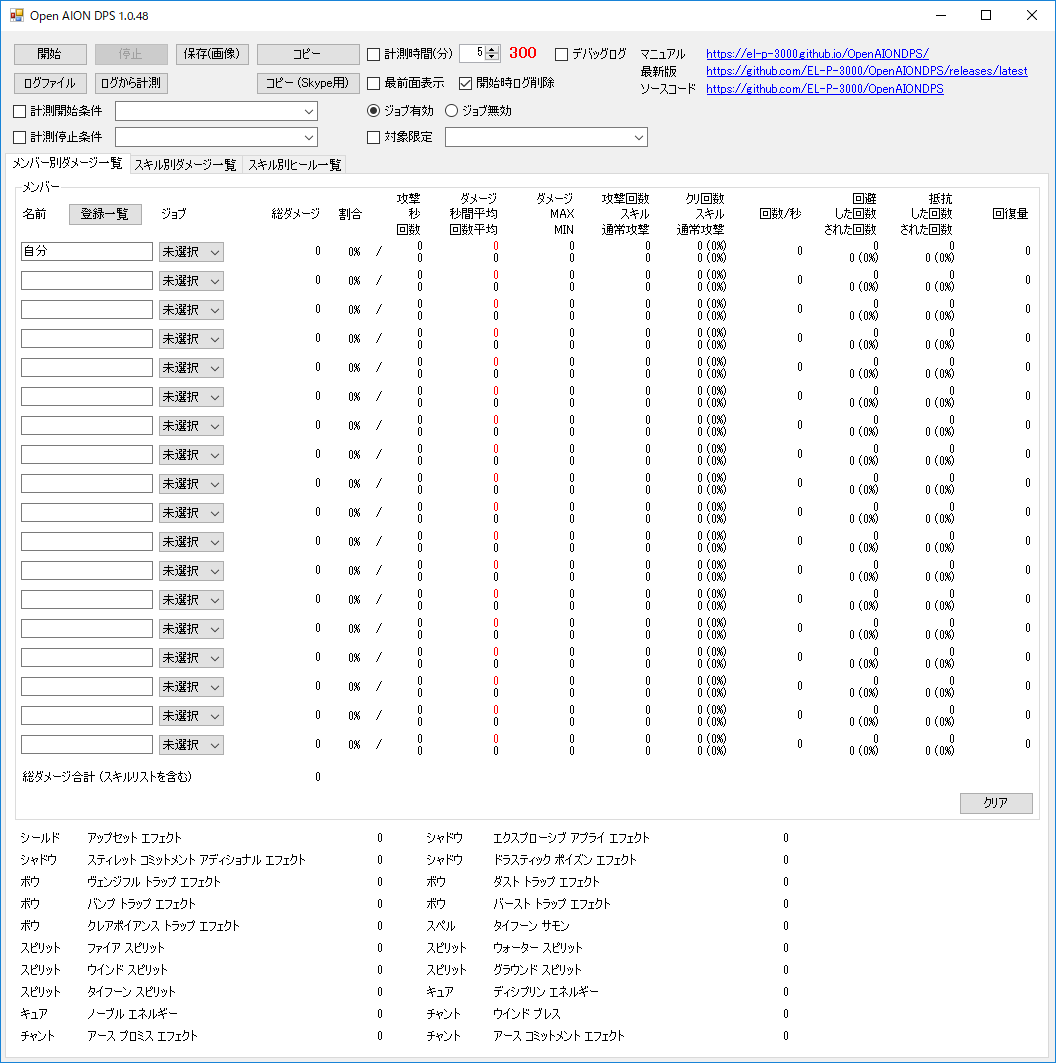
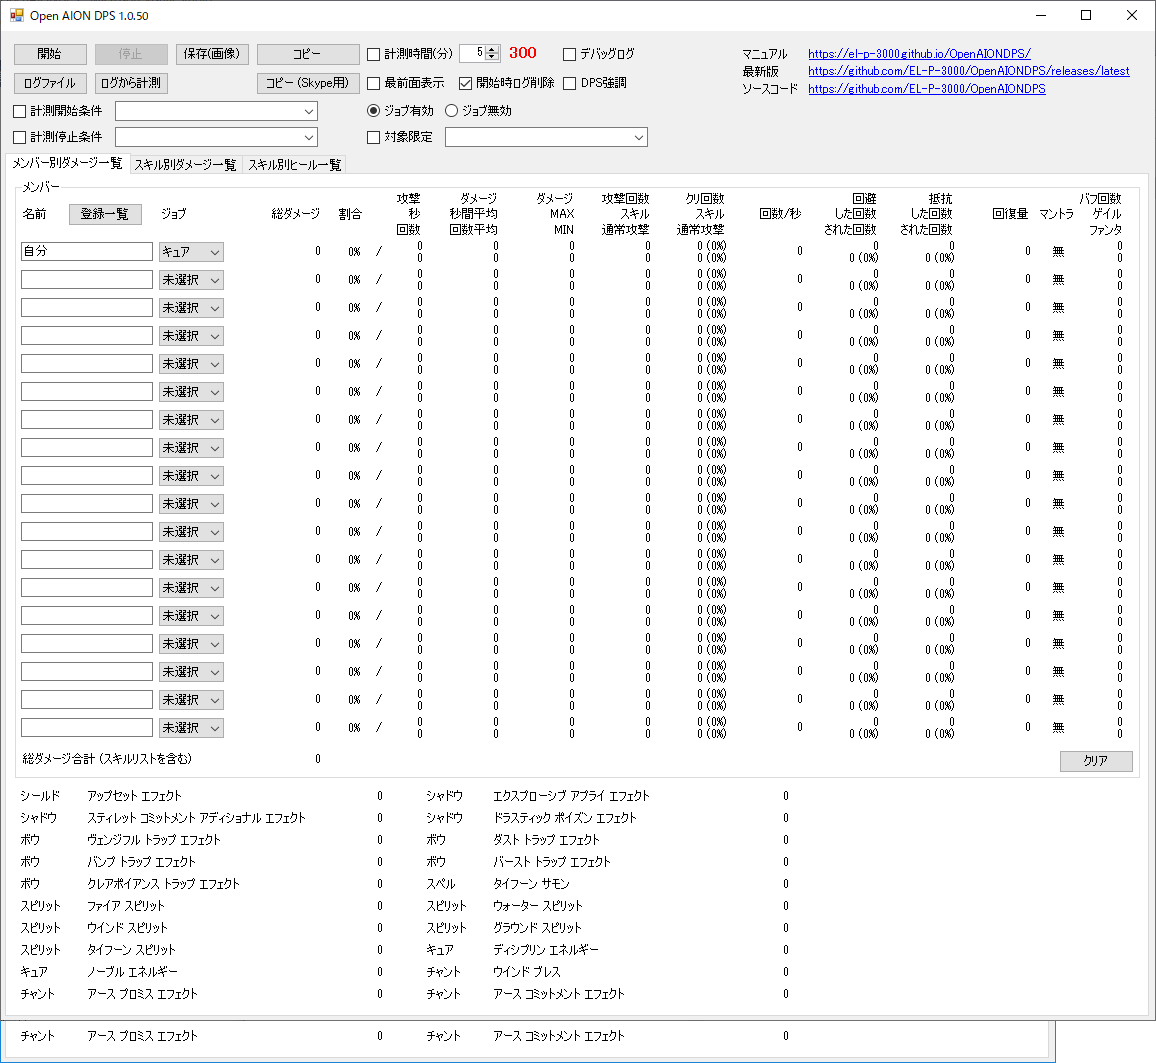
Version 1.0.50

diff --git a/OpenAIONDPS/MainForm.Designer.cs b/OpenAIONDPS/MainForm.Designer.cs
@@ -28,18 +28,18 @@
         /// </summary>
         private void InitializeComponent()
         {
-            System.Windows.Forms.DataGridViewCellStyle dataGridViewCellStyle13 = new System.Windows.Forms.DataGridViewCellStyle();
-            System.Windows.Forms.DataGridViewCellStyle dataGridViewCellStyle14 = new System.Windows.Forms.DataGridViewCellStyle();
-            System.Windows.Forms.DataGridViewCellStyle dataGridViewCellStyle15 = new System.Windows.Forms.DataGridViewCellStyle();
-            System.Windows.Forms.DataGridViewCellStyle dataGridViewCellStyle16 = new System.Windows.Forms.DataGridViewCellStyle();
-            System.Windows.Forms.DataGridViewCellStyle dataGridViewCellStyle17 = new System.Windows.Forms.DataGridViewCellStyle();
-            System.Windows.Forms.DataGridViewCellStyle dataGridViewCellStyle18 = new System.Windows.Forms.DataGridViewCellStyle();
-            System.Windows.Forms.DataGridViewCellStyle dataGridViewCellStyle19 = new System.Windows.Forms.DataGridViewCellStyle();
-            System.Windows.Forms.DataGridViewCellStyle dataGridViewCellStyle20 = new System.Windows.Forms.DataGridViewCellStyle();
-            System.Windows.Forms.DataGridViewCellStyle dataGridViewCellStyle21 = new System.Windows.Forms.DataGridViewCellStyle();
-            System.Windows.Forms.DataGridViewCellStyle dataGridViewCellStyle22 = new System.Windows.Forms.DataGridViewCellStyle();
-            System.Windows.Forms.DataGridViewCellStyle dataGridViewCellStyle23 = new System.Windows.Forms.DataGridViewCellStyle();
-            System.Windows.Forms.DataGridViewCellStyle dataGridViewCellStyle24 = new System.Windows.Forms.DataGridViewCellStyle();
+            System.Windows.Forms.DataGridViewCellStyle dataGridViewCellStyle1 = new System.Windows.Forms.DataGridViewCellStyle();
+            System.Windows.Forms.DataGridViewCellStyle dataGridViewCellStyle2 = new System.Windows.Forms.DataGridViewCellStyle();
+            System.Windows.Forms.DataGridViewCellStyle dataGridViewCellStyle3 = new System.Windows.Forms.DataGridViewCellStyle();
+            System.Windows.Forms.DataGridViewCellStyle dataGridViewCellStyle4 = new System.Windows.Forms.DataGridViewCellStyle();
+            System.Windows.Forms.DataGridViewCellStyle dataGridViewCellStyle5 = new System.Windows.Forms.DataGridViewCellStyle();
+            System.Windows.Forms.DataGridViewCellStyle dataGridViewCellStyle6 = new System.Windows.Forms.DataGridViewCellStyle();
+            System.Windows.Forms.DataGridViewCellStyle dataGridViewCellStyle7 = new System.Windows.Forms.DataGridViewCellStyle();
+            System.Windows.Forms.DataGridViewCellStyle dataGridViewCellStyle8 = new System.Windows.Forms.DataGridViewCellStyle();
+            System.Windows.Forms.DataGridViewCellStyle dataGridViewCellStyle9 = new System.Windows.Forms.DataGridViewCellStyle();
+            System.Windows.Forms.DataGridViewCellStyle dataGridViewCellStyle10 = new System.Windows.Forms.DataGridViewCellStyle();
+            System.Windows.Forms.DataGridViewCellStyle dataGridViewCellStyle11 = new System.Windows.Forms.DataGridViewCellStyle();
+            System.Windows.Forms.DataGridViewCellStyle dataGridViewCellStyle12 = new System.Windows.Forms.DataGridViewCellStyle();
             this.CalculationStartButton = new System.Windows.Forms.Button();
             this.CalculationStopButton = new System.Windows.Forms.Button();
             this.OpenLogFileButton = new System.Windows.Forms.Button();
@@ -1037,14 +1037,14 @@
             this.AttackSkillListDataGridView.Anchor = ((System.Windows.Forms.AnchorStyles)((((System.Windows.Forms.AnchorStyles.Top | System.Windows.Forms.AnchorStyles.Bottom) 
             | System.Windows.Forms.AnchorStyles.Left) 
             | System.Windows.Forms.AnchorStyles.Right)));
-            dataGridViewCellStyle13.Alignment = System.Windows.Forms.DataGridViewContentAlignment.MiddleLeft;
-            dataGridViewCellStyle13.BackColor = System.Drawing.SystemColors.Control;
-            dataGridViewCellStyle13.Font = new System.Drawing.Font("MS UI Gothic", 9F, System.Drawing.FontStyle.Regular, System.Drawing.GraphicsUnit.Point, ((byte)(128)));
-            dataGridViewCellStyle13.ForeColor = System.Drawing.SystemColors.WindowText;
-            dataGridViewCellStyle13.SelectionBackColor = System.Drawing.SystemColors.Highlight;
-            dataGridViewCellStyle13.SelectionForeColor = System.Drawing.SystemColors.HighlightText;
-            dataGridViewCellStyle13.WrapMode = System.Windows.Forms.DataGridViewTriState.False;
-            this.AttackSkillListDataGridView.ColumnHeadersDefaultCellStyle = dataGridViewCellStyle13;
+            dataGridViewCellStyle1.Alignment = System.Windows.Forms.DataGridViewContentAlignment.MiddleLeft;
+            dataGridViewCellStyle1.BackColor = System.Drawing.SystemColors.Control;
+            dataGridViewCellStyle1.Font = new System.Drawing.Font("MS UI Gothic", 9F, System.Drawing.FontStyle.Regular, System.Drawing.GraphicsUnit.Point, ((byte)(128)));
+            dataGridViewCellStyle1.ForeColor = System.Drawing.SystemColors.WindowText;
+            dataGridViewCellStyle1.SelectionBackColor = System.Drawing.SystemColors.Highlight;
+            dataGridViewCellStyle1.SelectionForeColor = System.Drawing.SystemColors.HighlightText;
+            dataGridViewCellStyle1.WrapMode = System.Windows.Forms.DataGridViewTriState.False;
+            this.AttackSkillListDataGridView.ColumnHeadersDefaultCellStyle = dataGridViewCellStyle1;
             this.AttackSkillListDataGridView.ColumnHeadersHeightSizeMode = System.Windows.Forms.DataGridViewColumnHeadersHeightSizeMode.AutoSize;
             this.AttackSkillListDataGridView.Columns.AddRange(new System.Windows.Forms.DataGridViewColumn[] {
             this.MemberNameColumn,
@@ -1073,8 +1073,8 @@
             // 
             // SkillNameColumn
             // 
-            dataGridViewCellStyle14.Alignment = System.Windows.Forms.DataGridViewContentAlignment.MiddleLeft;
-            this.SkillNameColumn.DefaultCellStyle = dataGridViewCellStyle14;
+            dataGridViewCellStyle2.Alignment = System.Windows.Forms.DataGridViewContentAlignment.MiddleLeft;
+            this.SkillNameColumn.DefaultCellStyle = dataGridViewCellStyle2;
             this.SkillNameColumn.HeaderText = "スキル名";
             this.SkillNameColumn.Name = "SkillNameColumn";
             this.SkillNameColumn.ReadOnly = true;
@@ -1082,8 +1082,8 @@
             // 
             // DamageColumn
             // 
-            dataGridViewCellStyle15.Alignment = System.Windows.Forms.DataGridViewContentAlignment.MiddleRight;
-            this.DamageColumn.DefaultCellStyle = dataGridViewCellStyle15;
+            dataGridViewCellStyle3.Alignment = System.Windows.Forms.DataGridViewContentAlignment.MiddleRight;
+            this.DamageColumn.DefaultCellStyle = dataGridViewCellStyle3;
             this.DamageColumn.HeaderText = "総ダメージ";
             this.DamageColumn.Name = "DamageColumn";
             this.DamageColumn.ReadOnly = true;
@@ -1091,8 +1091,8 @@
             // 
             // AttackNumberColumn
             // 
-            dataGridViewCellStyle16.Alignment = System.Windows.Forms.DataGridViewContentAlignment.MiddleRight;
-            this.AttackNumberColumn.DefaultCellStyle = dataGridViewCellStyle16;
+            dataGridViewCellStyle4.Alignment = System.Windows.Forms.DataGridViewContentAlignment.MiddleRight;
+            this.AttackNumberColumn.DefaultCellStyle = dataGridViewCellStyle4;
             this.AttackNumberColumn.HeaderText = "回数";
             this.AttackNumberColumn.Name = "AttackNumberColumn";
             this.AttackNumberColumn.ReadOnly = true;
@@ -1100,40 +1100,40 @@
             // 
             // MaxDamageColumn
             // 
-            dataGridViewCellStyle17.Alignment = System.Windows.Forms.DataGridViewContentAlignment.MiddleRight;
-            this.MaxDamageColumn.DefaultCellStyle = dataGridViewCellStyle17;
+            dataGridViewCellStyle5.Alignment = System.Windows.Forms.DataGridViewContentAlignment.MiddleRight;
+            this.MaxDamageColumn.DefaultCellStyle = dataGridViewCellStyle5;
             this.MaxDamageColumn.HeaderText = "MAXダメ(クリ無)";
             this.MaxDamageColumn.Name = "MaxDamageColumn";
             this.MaxDamageColumn.ReadOnly = true;
             // 
             // MinDamageColumn
             // 
-            dataGridViewCellStyle18.Alignment = System.Windows.Forms.DataGridViewContentAlignment.MiddleRight;
-            this.MinDamageColumn.DefaultCellStyle = dataGridViewCellStyle18;
+            dataGridViewCellStyle6.Alignment = System.Windows.Forms.DataGridViewContentAlignment.MiddleRight;
+            this.MinDamageColumn.DefaultCellStyle = dataGridViewCellStyle6;
             this.MinDamageColumn.HeaderText = "MINダメ(クリ無)";
             this.MinDamageColumn.Name = "MinDamageColumn";
             this.MinDamageColumn.ReadOnly = true;
             // 
             // MaxDamageWithCriticalColumn
             // 
-            dataGridViewCellStyle19.Alignment = System.Windows.Forms.DataGridViewContentAlignment.MiddleRight;
-            this.MaxDamageWithCriticalColumn.DefaultCellStyle = dataGridViewCellStyle19;
+            dataGridViewCellStyle7.Alignment = System.Windows.Forms.DataGridViewContentAlignment.MiddleRight;
+            this.MaxDamageWithCriticalColumn.DefaultCellStyle = dataGridViewCellStyle7;
             this.MaxDamageWithCriticalColumn.HeaderText = "MAXダメ(クリ有)";
             this.MaxDamageWithCriticalColumn.Name = "MaxDamageWithCriticalColumn";
             this.MaxDamageWithCriticalColumn.ReadOnly = true;
             // 
             // MinDamageWithCriticalColumn
             // 
-            dataGridViewCellStyle20.Alignment = System.Windows.Forms.DataGridViewContentAlignment.MiddleRight;
-            this.MinDamageWithCriticalColumn.DefaultCellStyle = dataGridViewCellStyle20;
+            dataGridViewCellStyle8.Alignment = System.Windows.Forms.DataGridViewContentAlignment.MiddleRight;
+            this.MinDamageWithCriticalColumn.DefaultCellStyle = dataGridViewCellStyle8;
             this.MinDamageWithCriticalColumn.HeaderText = "MINダメ(クリ有)";
             this.MinDamageWithCriticalColumn.Name = "MinDamageWithCriticalColumn";
             this.MinDamageWithCriticalColumn.ReadOnly = true;
             // 
             // DamageParAttackNumber
             // 
-            dataGridViewCellStyle21.Alignment = System.Windows.Forms.DataGridViewContentAlignment.MiddleRight;
-            this.DamageParAttackNumber.DefaultCellStyle = dataGridViewCellStyle21;
+            dataGridViewCellStyle9.Alignment = System.Windows.Forms.DataGridViewContentAlignment.MiddleRight;
+            this.DamageParAttackNumber.DefaultCellStyle = dataGridViewCellStyle9;
             this.DamageParAttackNumber.HeaderText = "平均ダメージ";
             this.DamageParAttackNumber.Name = "DamageParAttackNumber";
             this.DamageParAttackNumber.ReadOnly = true;
@@ -1168,14 +1168,14 @@
             this.HealSkillListDataGridView.Anchor = ((System.Windows.Forms.AnchorStyles)((((System.Windows.Forms.AnchorStyles.Top | System.Windows.Forms.AnchorStyles.Bottom) 
             | System.Windows.Forms.AnchorStyles.Left) 
             | System.Windows.Forms.AnchorStyles.Right)));
-            dataGridViewCellStyle22.Alignment = System.Windows.Forms.DataGridViewContentAlignment.MiddleLeft;
-            dataGridViewCellStyle22.BackColor = System.Drawing.SystemColors.Control;
-            dataGridViewCellStyle22.Font = new System.Drawing.Font("MS UI Gothic", 9F, System.Drawing.FontStyle.Regular, System.Drawing.GraphicsUnit.Point, ((byte)(128)));
-            dataGridViewCellStyle22.ForeColor = System.Drawing.SystemColors.WindowText;
-            dataGridViewCellStyle22.SelectionBackColor = System.Drawing.SystemColors.Highlight;
-            dataGridViewCellStyle22.SelectionForeColor = System.Drawing.SystemColors.HighlightText;
-            dataGridViewCellStyle22.WrapMode = System.Windows.Forms.DataGridViewTriState.False;
-            this.HealSkillListDataGridView.ColumnHeadersDefaultCellStyle = dataGridViewCellStyle22;
+            dataGridViewCellStyle10.Alignment = System.Windows.Forms.DataGridViewContentAlignment.MiddleLeft;
+            dataGridViewCellStyle10.BackColor = System.Drawing.SystemColors.Control;
+            dataGridViewCellStyle10.Font = new System.Drawing.Font("MS UI Gothic", 9F, System.Drawing.FontStyle.Regular, System.Drawing.GraphicsUnit.Point, ((byte)(128)));
+            dataGridViewCellStyle10.ForeColor = System.Drawing.SystemColors.WindowText;
+            dataGridViewCellStyle10.SelectionBackColor = System.Drawing.SystemColors.Highlight;
+            dataGridViewCellStyle10.SelectionForeColor = System.Drawing.SystemColors.HighlightText;
+            dataGridViewCellStyle10.WrapMode = System.Windows.Forms.DataGridViewTriState.False;
+            this.HealSkillListDataGridView.ColumnHeadersDefaultCellStyle = dataGridViewCellStyle10;
             this.HealSkillListDataGridView.ColumnHeadersHeightSizeMode = System.Windows.Forms.DataGridViewColumnHeadersHeightSizeMode.AutoSize;
             this.HealSkillListDataGridView.Columns.AddRange(new System.Windows.Forms.DataGridViewColumn[] {
             this.dataGridViewTextBoxColumn1,
@@ -1198,8 +1198,8 @@
             // 
             // dataGridViewTextBoxColumn2
             // 
-            dataGridViewCellStyle23.Alignment = System.Windows.Forms.DataGridViewContentAlignment.MiddleLeft;
-            this.dataGridViewTextBoxColumn2.DefaultCellStyle = dataGridViewCellStyle23;
+            dataGridViewCellStyle11.Alignment = System.Windows.Forms.DataGridViewContentAlignment.MiddleLeft;
+            this.dataGridViewTextBoxColumn2.DefaultCellStyle = dataGridViewCellStyle11;
             this.dataGridViewTextBoxColumn2.HeaderText = "スキル名";
             this.dataGridViewTextBoxColumn2.Name = "dataGridViewTextBoxColumn2";
             this.dataGridViewTextBoxColumn2.ReadOnly = true;
@@ -1207,8 +1207,8 @@
             // 
             // dataGridViewTextBoxColumn3
             // 
-            dataGridViewCellStyle24.Alignment = System.Windows.Forms.DataGridViewContentAlignment.MiddleRight;
-            this.dataGridViewTextBoxColumn3.DefaultCellStyle = dataGridViewCellStyle24;
+            dataGridViewCellStyle12.Alignment = System.Windows.Forms.DataGridViewContentAlignment.MiddleRight;
+            this.dataGridViewTextBoxColumn3.DefaultCellStyle = dataGridViewCellStyle12;
             this.dataGridViewTextBoxColumn3.HeaderText = "総回復量";
             this.dataGridViewTextBoxColumn3.Name = "dataGridViewTextBoxColumn3";
             this.dataGridViewTextBoxColumn3.ReadOnly = true;
@@ -1327,7 +1327,7 @@
             this.KeyPreview = true;
             this.MaximumSize = new System.Drawing.Size(1170, 1028);
             this.Name = "MainForm";
-            this.Text = "Open AION DPS 1.0.49";
+            this.Text = "Open AION DPS 1.0.50";
             this.FormClosing += new System.Windows.Forms.FormClosingEventHandler(this.MainForm_FormClosing);
             this.Load += new System.EventHandler(this.MainForm_Load);
             this.MemberGroupBox.ResumeLayout(false);

diff --git a/OpenAIONDPS/Properties/AssemblyInfo.cs b/OpenAIONDPS/Properties/AssemblyInfo.cs
@@ -32,5 +32,5 @@ using System.Runtime.InteropServices;
 // すべての値を指定するか、次を使用してビルド番号とリビジョン番号を既定に設定できます
 // 既定値にすることができます:
 // [assembly: AssemblyVersion("1.0.*")]
-[assembly: AssemblyVersion("1.0.49.0")]
-[assembly: AssemblyFileVersion("1.0.49.0")]
+[assembly: AssemblyVersion("1.0.50.0")]
+[assembly: AssemblyFileVersion("1.0.50.0")]

diff --git a/docs/README.md b/docs/README.md
@@ -12,7 +12,7 @@ RAM: 64GB
 GPU: NVIDIA GeForce GTX 2080 TI  
 OS: Windows 10 Pro 64bit  
 
-ツールのメイン画面 (Version 1.0.48)  
+ツールのメイン画面 (Version 1.0.50)  
 ![Main](images/OpenAIONDPS-Main.png)
 
 登録一覧画面  
@@ -61,6 +61,9 @@ HP回復スキルを使用した場合、メンバーリストの方は計測が
 開始ボタンを押下した際に「Chat.log」の内容を消去します。  
 内容を削除することで処理の軽減や計測後にログファイルを再読み込みする際に役立ちます。  
 以前の内容を消去したくない場合はチェックをはずしてください。  
+
+## DPS強調
+各メンバーのDPSの項目のフォントサイズを大きくし、赤字の太字に変更します。  
 
 ## ジョブ有効／ジョブ無効  
 有効にした場合でメンバーに同一のジョブが2人以上いない場合は、下段のスキルリストのジョブに対するスキルのダメージがメンバーの総ダメージに加算され、スキルリストのダメージは0となります。  メンバーに同一のジョブが2人以上いる場合は、下段のスキルリストのスキルによるダメージはメンバーに加算されず、スキルに加算されます。    
@@ -118,6 +121,10 @@ CTRL＋F1で計測開始／計測停止
 率＝抵抗された回数×100／攻撃回数
 * 回復量
 自分が自分または他人をヒールした際の回復量の合計
+* マントラ
+チャントの各種マントラのバフの有無
+* バフ
+チャントのゲイル スペルの回数メロディのディストラクション ファンタジアの回数
 * 総ダメージ合計（スキルリスト含む）  
 全員の総ダメージの合計と、下段のスキルリストの各ダメージの合計です。  
 * スキルダメージリスト  
